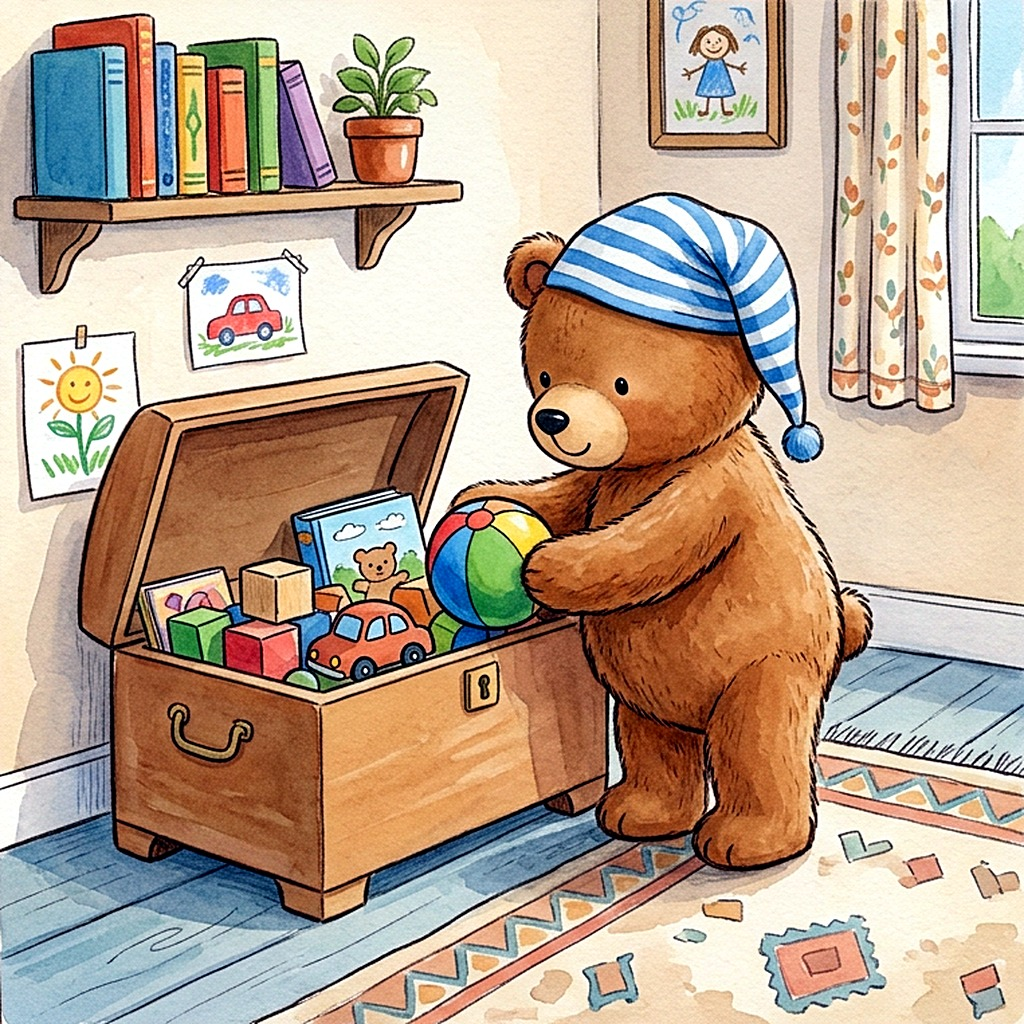
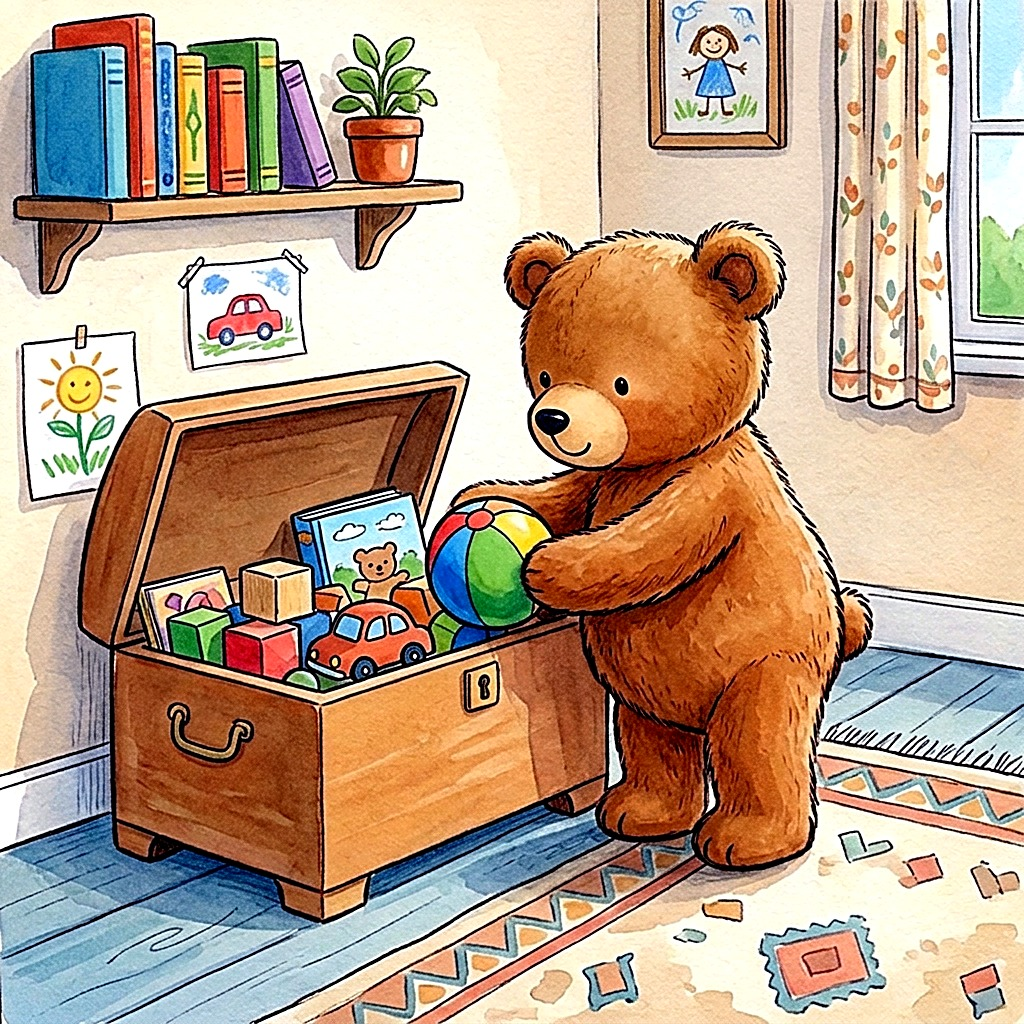
tidy-toys: the bear without its nightcap (cap only around sleep)
Recreated by agy (Gemini) from the previous tidy-toys image with one change;
contrast raised with tools/enhance.py. Google Lens Exact matches on raw and
final file: none.

diff --git a/output/sl-vsakdan.html b/output/sl-vsakdan.html
@@ -358,11 +358,11 @@
         </div>
         <div class="rt-check"></div>
       </div>
-      <div class="rt-pic pic-right" style="--step: #C026D3; --bg: #FEFAE8; --ink: #772196; grid-row: 12 / span 4;">
+      <div class="rt-pic pic-right" style="--step: #C026D3; --bg: #FFFEEA; --ink: #772196; grid-row: 12 / span 4;">
         <img src="../images/tidy-toys.jpg" alt="Pospravi igrače" />
         <div class="rt-num">6</div>
       </div>
-      <div class="rt-card card-right" style="--step: #C026D3; --bg: #FEFAE8; --ink: #772196; grid-row: 13 / span 2;">
+      <div class="rt-card card-right" style="--step: #C026D3; --bg: #FFFEEA; --ink: #772196; grid-row: 13 / span 2;">
         <div class="rt-text">
           <div class="rt-label">POSPRAVI IGRAČE</div>
           <div class="rt-time"><span class="blank"></span>:<span class="blank"></span></div>

diff --git a/web/data.js b/web/data.js
@@ -254,7 +254,7 @@ window.SHEET_DATA = {
    }
   },
   "tidy-toys": {
-   "title": "Teddy bear in a nightcap putting the last ball into a full toy chest",
+   "title": "Teddy bear putting the last ball into a full toy chest",
    "keywords": {
     "sl": [
      "igrac*",
@@ -457,7 +457,7 @@ window.SHEET_EDGES = {
   "set-table": ["#FDE8D7", "#FFDD9C"],
   "sleep": ["#FFFEEC", "#FFFEEB"],
   "story": ["#C8CCDE", "#D1D8EB"],
-  "tidy-toys": ["#F0DABE", "#FEFAE8"],
+  "tidy-toys": ["#F7DEBD", "#FFFEEA"],
   "toilet": ["#D4F3E9", "#BCE9D7"],
   "wash-hands": ["#ECE9D6", "#FAF1E0"],
 };
